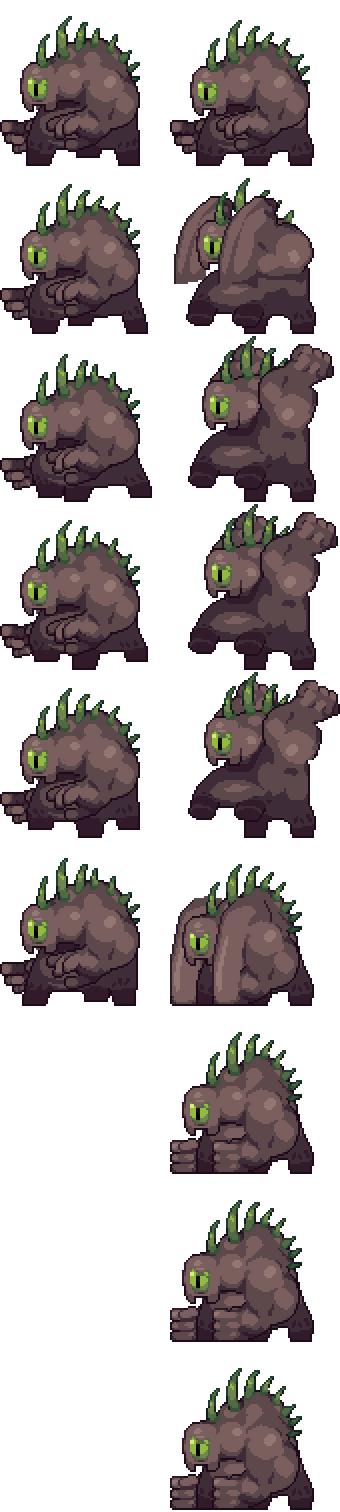
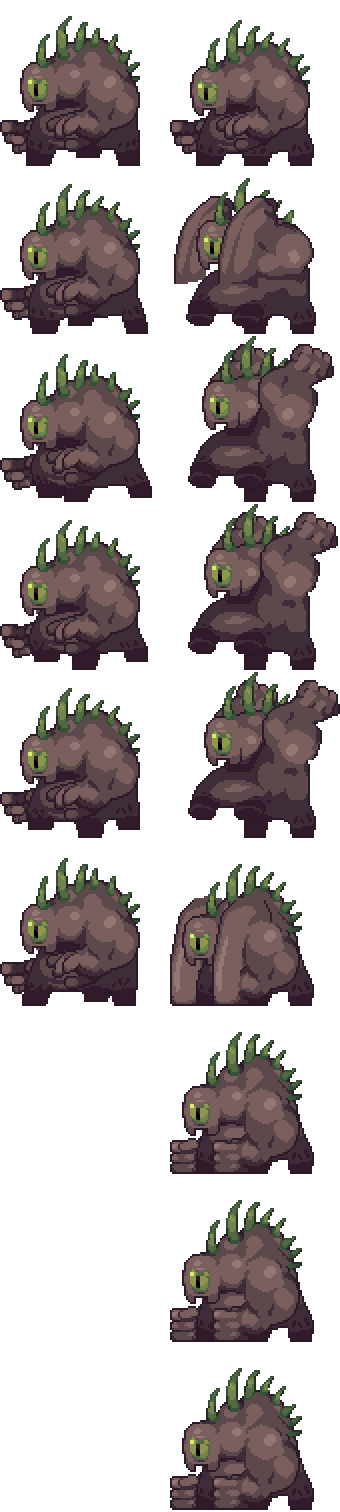
reworked glutton

diff --git a/NPCs/Corruption/Glutton.cs b/NPCs/Corruption/Glutton.cs
@@ -11,6 +11,11 @@ using Terraria.GameContent.ItemDropRules;
 using Terraria.GameContent.Bestiary;
 using static Terraria.ModLoader.PlayerDrawLayer;
 using EbonianMod.Dusts;
+using EbonianMod.Items.Misc;
+using EbonianMod.Projectiles.VFXProjectiles;
+using Terraria.Audio;
+using EbonianMod.Projectiles.Terrortoma;
+using System.Net.Sockets;
 
 namespace EbonianMod.NPCs.Corruption
 {
@@ -59,7 +64,7 @@ namespace EbonianMod.NPCs.Corruption
         {
             NPC.frameCounter++;
             NPC.frame.Width = ActualWidth;
-            NPC.frame.X = (int)AIState * ActualWidth;
+            NPC.frame.X = (AIState == 0 ? 0 : 1) * ActualWidth;
             if (!NPC.collideY)
             {
                 NPC.frame.Y = 0;
@@ -75,12 +80,19 @@ namespace EbonianMod.NPCs.Corruption
                         else
                             NPC.frame.Y = 0;
                     }
-                    else
+                    else if (AIState == 1)
                     {
                         if (NPC.frame.Y < 8 * frameHeight)
                             NPC.frame.Y += frameHeight;
                         else
                             NPC.frame.Y = 0;
+                    }
+                    else
+                    {
+                        if (NPC.frame.Y < 4 * frameHeight)
+                            NPC.frame.Y += frameHeight;
+                        else
+                            NPC.frame.Y = 2 * frameHeight;
                     }
                 }
             }
@@ -99,6 +111,7 @@ namespace EbonianMod.NPCs.Corruption
         public override bool PreDraw(SpriteBatch spriteBatch, Vector2 pos, Color lightColor)
         {
             Texture2D drawTexture = Helper.GetTexture("NPCs/Corruption/Glutton");
+            Texture2D glowTexture = Helper.GetTexture("NPCs/Corruption/Glutton_Glow");
             Vector2 origin = new Vector2((drawTexture.Width / 2) * 0.5F, (drawTexture.Height / Main.npcFrameCount[NPC.type]) * 0.5F);
 
             Vector2 drawPos = new Vector2(
@@ -108,6 +121,7 @@ namespace EbonianMod.NPCs.Corruption
             SpriteEffects effects = NPC.spriteDirection == -1 ? SpriteEffects.None : SpriteEffects.FlipHorizontally;
 
             spriteBatch.Draw(drawTexture, drawPos, NPC.frame, lightColor, NPC.rotation, origin, NPC.scale, effects, 0);
+            spriteBatch.Draw(glowTexture, drawPos, NPC.frame, Color.White, NPC.rotation, origin, NPC.scale, effects, 0);
             return false;
         }
         public float AIState
@@ -126,10 +140,10 @@ namespace EbonianMod.NPCs.Corruption
             get => NPC.ai[2];
             set => NPC.ai[2] = value;
         }
-        const int Walk = 0, Attack = 1;
+        const int Walk = 0, GroundPound = 1, Conjure = 2;
         public override void HitEffect(NPC.HitInfo hit)
         {
-            if ((hit.Damage >= NPC.life && NPC.life <= 0) )
+            if ((hit.Damage >= NPC.life && NPC.life <= 0))
             {
                 Gore.NewGore(NPC.GetSource_Death(), NPC.Center - new Vector2(0, 25), Main.rand.NextVector2Circular(5, 5), ModContent.Find<ModGore>("EbonianMod/GluttonGore1").Type, NPC.scale);
                 for (int i = 0; i < 2; i++)
@@ -146,18 +160,20 @@ namespace EbonianMod.NPCs.Corruption
         {
             Player player = Main.player[NPC.target];
             NPC.TargetClosest(true);
+            NPC.spriteDirection = NPC.direction;
             if (AIState == Walk)
             {
                 Collision.StepUp(ref NPC.position, ref NPC.velocity, NPC.width, NPC.height, ref NPC.stepSpeed, ref NPC.gfxOffY, 1, false, 0);
                 if (NPC.collideY && NPC.collideX)
                     NPC.velocity.Y = -10;
-                if (player.Center.Distance(NPC.Center) < NPC.width * 2)
+                if (player.Center.Distance(NPC.Center) < NPC.width * 4)
                 {
                     AITimer++;
                 }
                 if (player.Center.Distance(NPC.Center) < NPC.width / 2)
                 {
-                    AITimer = 300;
+                    if (AITimer < 280)
+                        AITimer = 280;
                 }
                 NPC.velocity.X = Helper.FromAToB(NPC.Center, player.Center).X * 3;
                 if (AITimer >= 300)
@@ -165,18 +181,38 @@ namespace EbonianMod.NPCs.Corruption
                     AITimer = 0;
                     NPC.frameCounter = 0;
                     NPC.frame.Y = 0;
-                    AIState = Attack;
+                    AIState = (player.Center.Distance(NPC.Center) > NPC.width / 2 ? Conjure : GroundPound);
+                    NPC.velocity = Vector2.Zero;
+                }
+            }
+            else if (AIState == GroundPound)
+            {
+                AITimer++;
+                if (AITimer == 30 || AITimer == 75)
+                {
+                    EbonianSystem.ScreenShakeAmount = 5;
+                    SoundEngine.PlaySound(SoundID.Item70, NPC.Center);
+                    Projectile a = Projectile.NewProjectileDirect(NPC.GetSource_FromThis(), NPC.Bottom + new Vector2(NPC.direction * 50, 0), new Vector2(0, 0), ModContent.ProjectileType<GluttonImpact>(), 20, 0, 0, 0);
+                    a.friendly = false;
+                    a.hostile = true;
+                }
+                if (AITimer >= 85)
+                {
+                    AITimer = 0;
+                    NPC.frame.Y = 0;
+                    AIState = Walk;
                     NPC.velocity = Vector2.Zero;
                 }
             }
             else
             {
                 AITimer++;
-                if (AITimer == 30 || AITimer == 75)
+                if (AITimer % 10 == 0 && AITimer > 35)
                 {
-                    Projectile.NewProjectile(NPC.GetSource_FromThis(), NPC.Center, new Vector2(0, 0), ModContent.ProjectileType<FatSmash>(), 20, 0, 0, 0);
+                    Vector2 pos = NPC.Bottom + new Vector2(NPC.direction * Main.rand.NextFloat(-400, 400), 700);
+                    Projectile.NewProjectile(null, pos, Helper.FromAToB(pos, player.Center).RotatedByRandom(MathHelper.PiOver4) * 10, ModContent.ProjectileType<TerrorVilethorn1>(), 20, 0);
                 }
-                if (AITimer >= 85)
+                if (AITimer >= 105)
                 {
                     AITimer = 0;
                     NPC.frame.Y = 0;

diff --git a/Projectiles/VFXProjectiles/GluttonImpact.cs b/Projectiles/VFXProjectiles/GluttonImpact.cs
@@ -1,0 +1,82 @@
+using Microsoft.Xna.Framework.Graphics;
+using Microsoft.Xna.Framework;
+using System;
+using System.Collections.Generic;
+using System.Linq;
+using System.Text;
+using System.Threading.Tasks;
+using Terraria.DataStructures;
+using Terraria.Utilities;
+using Terraria;
+using Terraria.ModLoader;
+using Terraria.ID;
+
+namespace EbonianMod.Projectiles.VFXProjectiles
+{
+    public class GluttonImpact : ModProjectile
+    {
+        public override string Texture => Helper.Placeholder;
+        public override void SetDefaults()
+        {
+            Projectile.width = 200;
+            Projectile.height = 100;
+            Projectile.aiStyle = -1;
+            Projectile.friendly = false;
+            Projectile.hostile = true;
+            Projectile.timeLeft = 50;
+            Projectile.tileCollide = false;
+            Projectile.penetrate = -1;
+        }
+        public override bool ShouldUpdatePosition()
+        {
+            return false;
+        }
+        int seed;
+        public override void OnSpawn(IEntitySource source)
+        {
+            seed = Main.rand.Next(int.MaxValue);
+            for (int k = 0; k < 30; k++)
+            {
+                Dust.NewDustPerfect(Projectile.Center, DustID.CursedTorch, Main.rand.NextVector2Unit(-MathHelper.Pi, MathHelper.Pi) * Main.rand.NextFloat(1, 30), 0, default, Main.rand.NextFloat(1, 3)).noGravity = true;
+                Dust.NewDustPerfect(Projectile.Center, DustID.Granite, Main.rand.NextVector2Unit(-MathHelper.Pi, MathHelper.Pi) * Main.rand.NextFloat(1, 30), 100, default, Main.rand.NextFloat(1, 2)).noGravity = true;
+            }
+        }
+        public override bool PreDraw(ref Color lightColor)
+        {
+            Texture2D tex = Helper.GetExtraTexture("cone2");
+            UnifiedRandom rand = new UnifiedRandom(seed);
+            float max = 30;
+            float alpha = MathHelper.Lerp(0.5f, 0, Projectile.ai[1]) * 2;
+            Main.spriteBatch.Reload(BlendState.Additive);
+            Main.spriteBatch.Reload(EbonianMod.SpriteRotation);
+            EbonianMod.SpriteRotation.Parameters["rotation"].SetValue(rand.NextFloat(MathHelper.Pi, MathHelper.TwoPi) * (rand.NextFloatDirection() > 0 ? 1 : -1) + Projectile.ai[1]);
+            EbonianMod.SpriteRotation.Parameters["scale"].SetValue(new Vector2(1, rand.NextFloat(0.2f, 0.8f)));
+            EbonianMod.SpriteRotation.Parameters["uColor"].SetValue(Color.LawnGreen.ToVector4() * alpha * 0.5f);
+            for (float i = 0; i < max; i++)
+            {
+                float angle = Helper.CircleDividedEqually(i, max * 2) + MathHelper.Pi;
+                float scale = rand.NextFloat(0.15f, .6f);
+                Vector2 offset = new Vector2(Main.rand.NextFloat(-10, 20) * Projectile.ai[1] * scale, 0).RotatedBy(angle);
+                for (float j = 0; j < 2; j++)
+                    Main.spriteBatch.Draw(tex, Projectile.Center + offset - Main.screenPosition, null, Color.LawnGreen * alpha * 0.5f, angle, new Vector2(0, tex.Height / 2), new Vector2(Projectile.ai[1], alpha) * scale * 0.6f, SpriteEffects.None, 0);
+            }
+            Main.spriteBatch.Reload(effect: null);
+            for (float i = 0; i < max; i++)
+            {
+                float angle = Helper.CircleDividedEqually(i, max * 2) + MathHelper.Pi;
+                float scale = rand.NextFloat(0.3f, .8f);
+                Vector2 offset = new Vector2(Main.rand.NextFloat(-10, 20) * Projectile.ai[1] * scale, 0).RotatedBy(angle);
+                for (float j = 0; j < 2; j++)
+                    Main.spriteBatch.Draw(tex, Projectile.Center + offset - Main.screenPosition, null, Color.LawnGreen * alpha * 0.5f, angle, new Vector2(0, tex.Height / 2), new Vector2(Projectile.ai[1], alpha) * scale * 0.6f, SpriteEffects.None, 0);
+            }
+            Main.spriteBatch.Reload(BlendState.AlphaBlend);
+            return false;
+        }
+        public override void AI()
+        {
+            Projectile.ai[1] = MathHelper.Lerp(Projectile.ai[1], 1, 0.15f);
+            if (Projectile.ai[1] > 1)
+                Projectile.Kill();
+        }
+    }
+}

diff --git a/Items/Weapons/Melee/EbonianScythe.cs b/Items/Weapons/Melee/EbonianScythe.cs
@@ -77,11 +77,9 @@ namespace EbonianMod.Items.Weapons.Melee
         public override void PostDraw(Color lightColor)
         {
             Player player = Main.player[Projectile.owner];
-            Texture2D slash = Helper.GetExtraTexture("Extras2/slash_06_half");
+            Texture2D slash = Helper.GetExtraTexture("Extras2/slash_06");
             float mult = Ease(Utils.GetLerpValue(0f, swingTime, Projectile.timeLeft));
             float alpha = (float)Math.Sin(mult * Math.PI);
-            if (mult > 0.5f)
-                slash = Helper.GetExtraTexture("Extras2/slash_06");
             Vector2 pos = player.Center + Projectile.velocity * 20f;
             Main.spriteBatch.Reload(BlendState.Additive);
             Main.spriteBatch.Draw(slash, pos - Main.screenPosition, null, new Color(152, 187, 63) * alpha * 0.5f, Projectile.velocity.ToRotation(), slash.Size() / 2, Projectile.scale / 3.5f, SpriteEffects.None, 0f);
